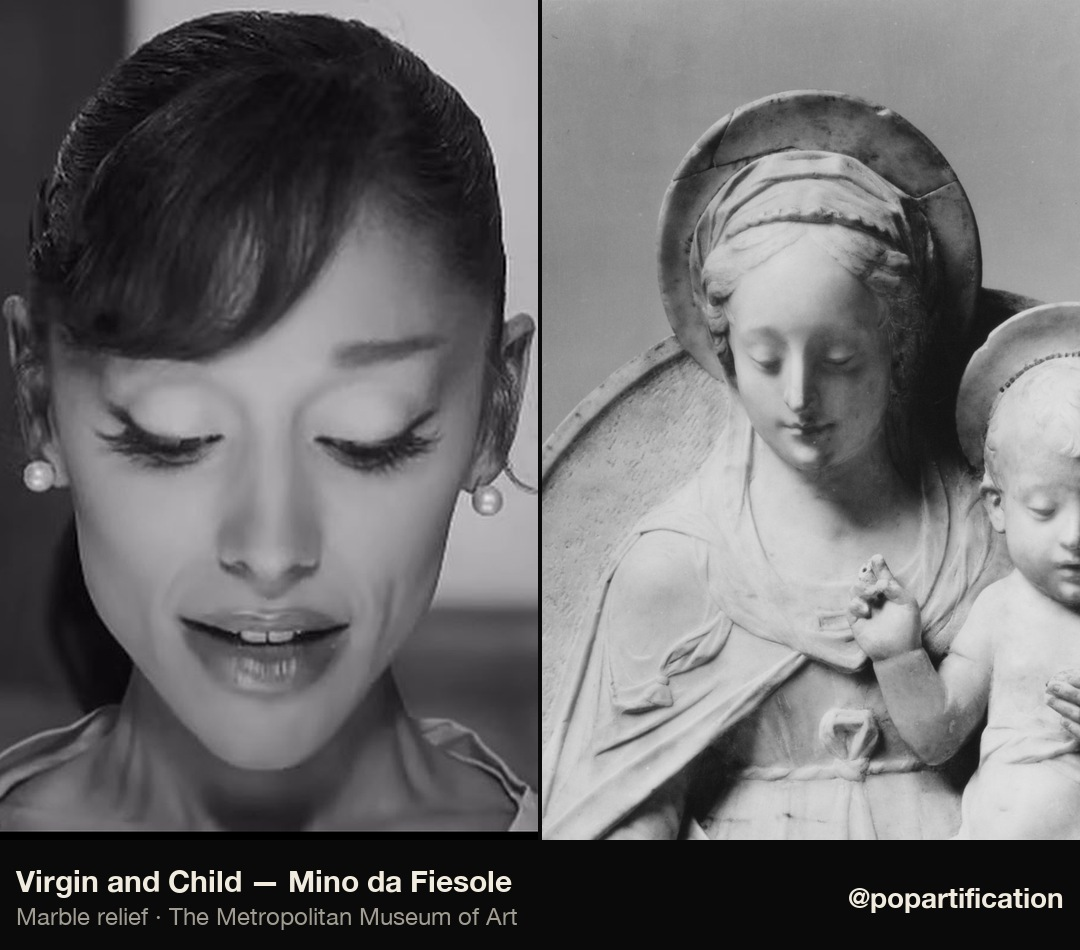
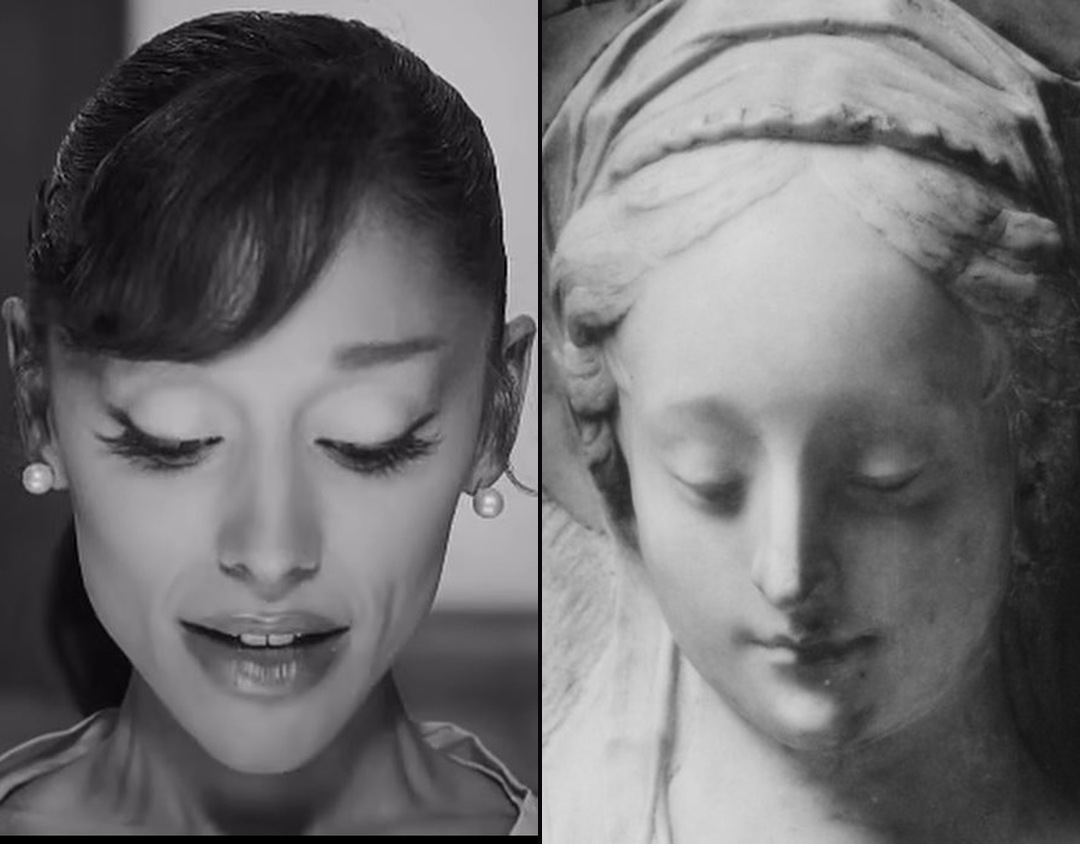
Frame-matched composer: art side zoomed to mirror the query framing
compose_pairing.py detects the face in both images and crops the
artwork so its face fills the same fraction of the frame at the same
position — no banner, credits move to the caption.

diff --git a/scripts/compose_pairing.py b/scripts/compose_pairing.py
@@ -1,0 +1,113 @@
+#!/usr/bin/env python3
+"""Compose a popartification pairing: two images, framed identically.
+
+Detects the dominant face in both the pop-culture image and the artwork, then
+crops the ARTWORK so its face fills the same fraction of the frame, at the
+same position, as the face in the query — the "zoom until identical" rule.
+No banner, no text: just the two halves (credits belong in the caption).
+
+Usage:
+    python3 scripts/compose_pairing.py query.jpg art.jpg out.jpg [--stack]
+
+Side-by-side by default; --stack for top/bottom (use when both images are
+strongly horizontal).
+"""
+
+import sys
+from pathlib import Path
+
+from PIL import Image
+
+sys.path.insert(0, str(Path(__file__).resolve().parent))
+from artmatch import vision_features  # noqa: E402
+
+GAP = 4
+CANVAS_W = 1080
+
+
+def dominant_face(path):
+    feats = vision_features([Path(path)], quiet=True).get(str(Path(path)))
+    if not feats or not feats["figures"]:
+        return None
+    f = max(feats["figures"], key=lambda r: r[2] * r[3])
+    # Vision: normalized, bottom-left origin → top-left origin.
+    return {"x": f[0], "top": 1 - f[1] - f[3], "w": f[2], "h": f[3]}
+
+
+def face_frame_crop(image, face, aspect, fill=None, rel_center=None):
+    """Crop `image` to `aspect` (w/h). When `fill`/`rel_center` are given,
+    scale the crop so the face fills that fraction of the crop height and its
+    center lands at that relative position; otherwise fit the largest crop
+    containing the face."""
+    w, h = image.size
+    fx = (face["x"] + face["w"] / 2) * w
+    fy = (face["top"] + face["h"] / 2) * h
+    face_h = face["h"] * h
+    face_w = face["w"] * w
+
+    if fill:
+        crop_h = face_h / fill
+        crop_w = crop_h * aspect
+        # Never clip the face horizontally.
+        crop_w = max(crop_w, face_w * 1.15)
+        crop_h = crop_w / aspect
+    else:
+        crop_h = h
+        crop_w = crop_h * aspect
+        if crop_w > w:
+            crop_w = w
+            crop_h = crop_w / aspect
+        crop_w = max(crop_w, min(w, face_w * 1.15))
+        crop_h = crop_w / aspect
+
+    crop_w, crop_h = min(crop_w, w), min(crop_h, h)
+    rcx, rcy = rel_center or (0.5, 0.45)
+    left = min(max(0, fx - rcx * crop_w), w - crop_w)
+    top = min(max(0, fy - rcy * crop_h), h - crop_h)
+    crop = image.crop((int(left), int(top), int(left + crop_w), int(top + crop_h)))
+
+    achieved = {"fill": face_h / crop_h,
+                "rel": ((fx - left) / crop_w, (fy - top) / crop_h)}
+    return crop, achieved
+
+
+def compose(query_path, art_path, out_path, stack=False):
+    query = Image.open(query_path).convert("RGB")
+    art = Image.open(art_path).convert("RGB")
+    query_face = dominant_face(query_path)
+    art_face = dominant_face(art_path)
+    if not query_face or not art_face:
+        raise SystemExit("need a detectable face in both images")
+
+    if stack:
+        half_w, half_h = CANVAS_W, 660
+    else:
+        half_w, half_h = (CANVAS_W - GAP) // 2, 844
+    aspect = half_w / half_h
+
+    query_half, achieved = face_frame_crop(query, query_face, aspect)
+    # Mirror the query's framing onto the artwork: same face fill, same
+    # relative face position.
+    art_half, _ = face_frame_crop(art, art_face, aspect,
+                                  fill=achieved["fill"], rel_center=achieved["rel"])
+
+    query_half = query_half.resize((half_w, half_h), Image.LANCZOS)
+    art_half = art_half.resize((half_w, half_h), Image.LANCZOS)
+
+    if stack:
+        canvas = Image.new("RGB", (CANVAS_W, half_h * 2 + GAP), (8, 8, 8))
+        canvas.paste(query_half, (0, 0))
+        canvas.paste(art_half, (0, half_h + GAP))
+    else:
+        canvas = Image.new("RGB", (half_w * 2 + GAP, half_h), (8, 8, 8))
+        canvas.paste(query_half, (0, 0))
+        canvas.paste(art_half, (half_w + GAP, 0))
+    canvas.save(out_path, "JPEG", quality=93)
+    print(f"saved {out_path} {canvas.size} (face fill {achieved['fill']:.0%})")
+
+
+if __name__ == "__main__":
+    args = [a for a in sys.argv[1:] if a != "--stack"]
+    if len(args) < 3:
+        raise SystemExit(__doc__)
+    compose(args[0], args[1], args[2], stack="--stack" in sys.argv)
